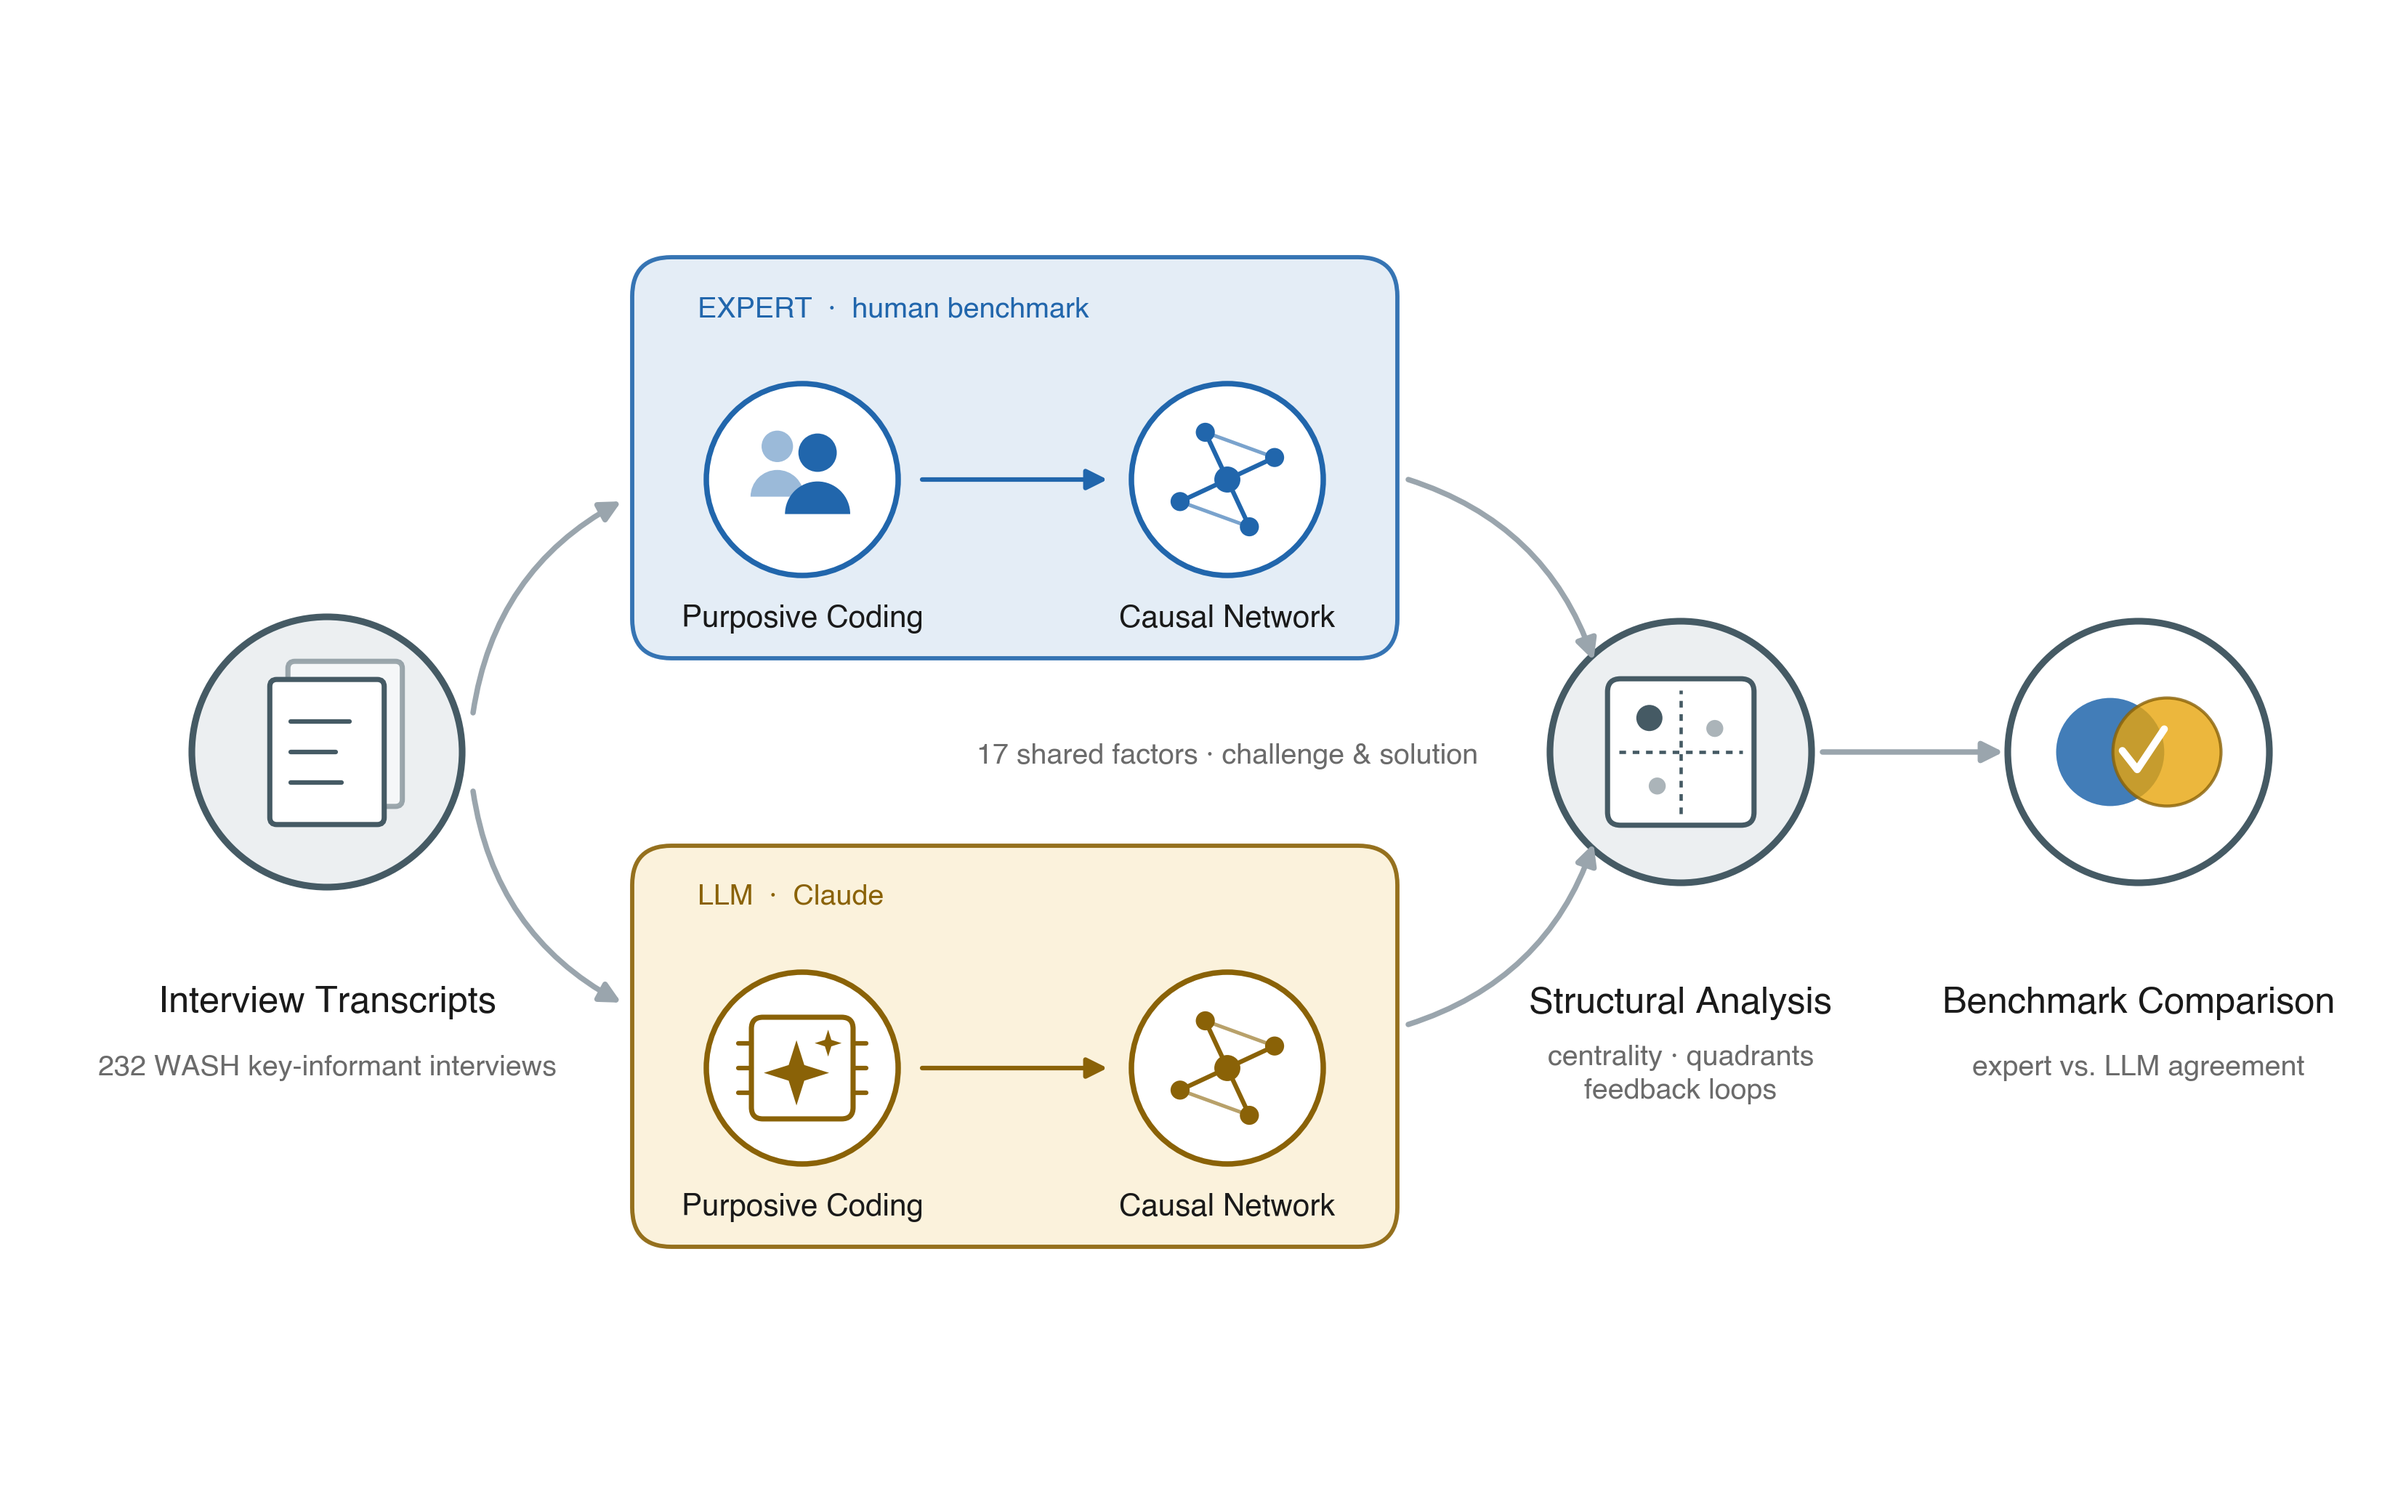
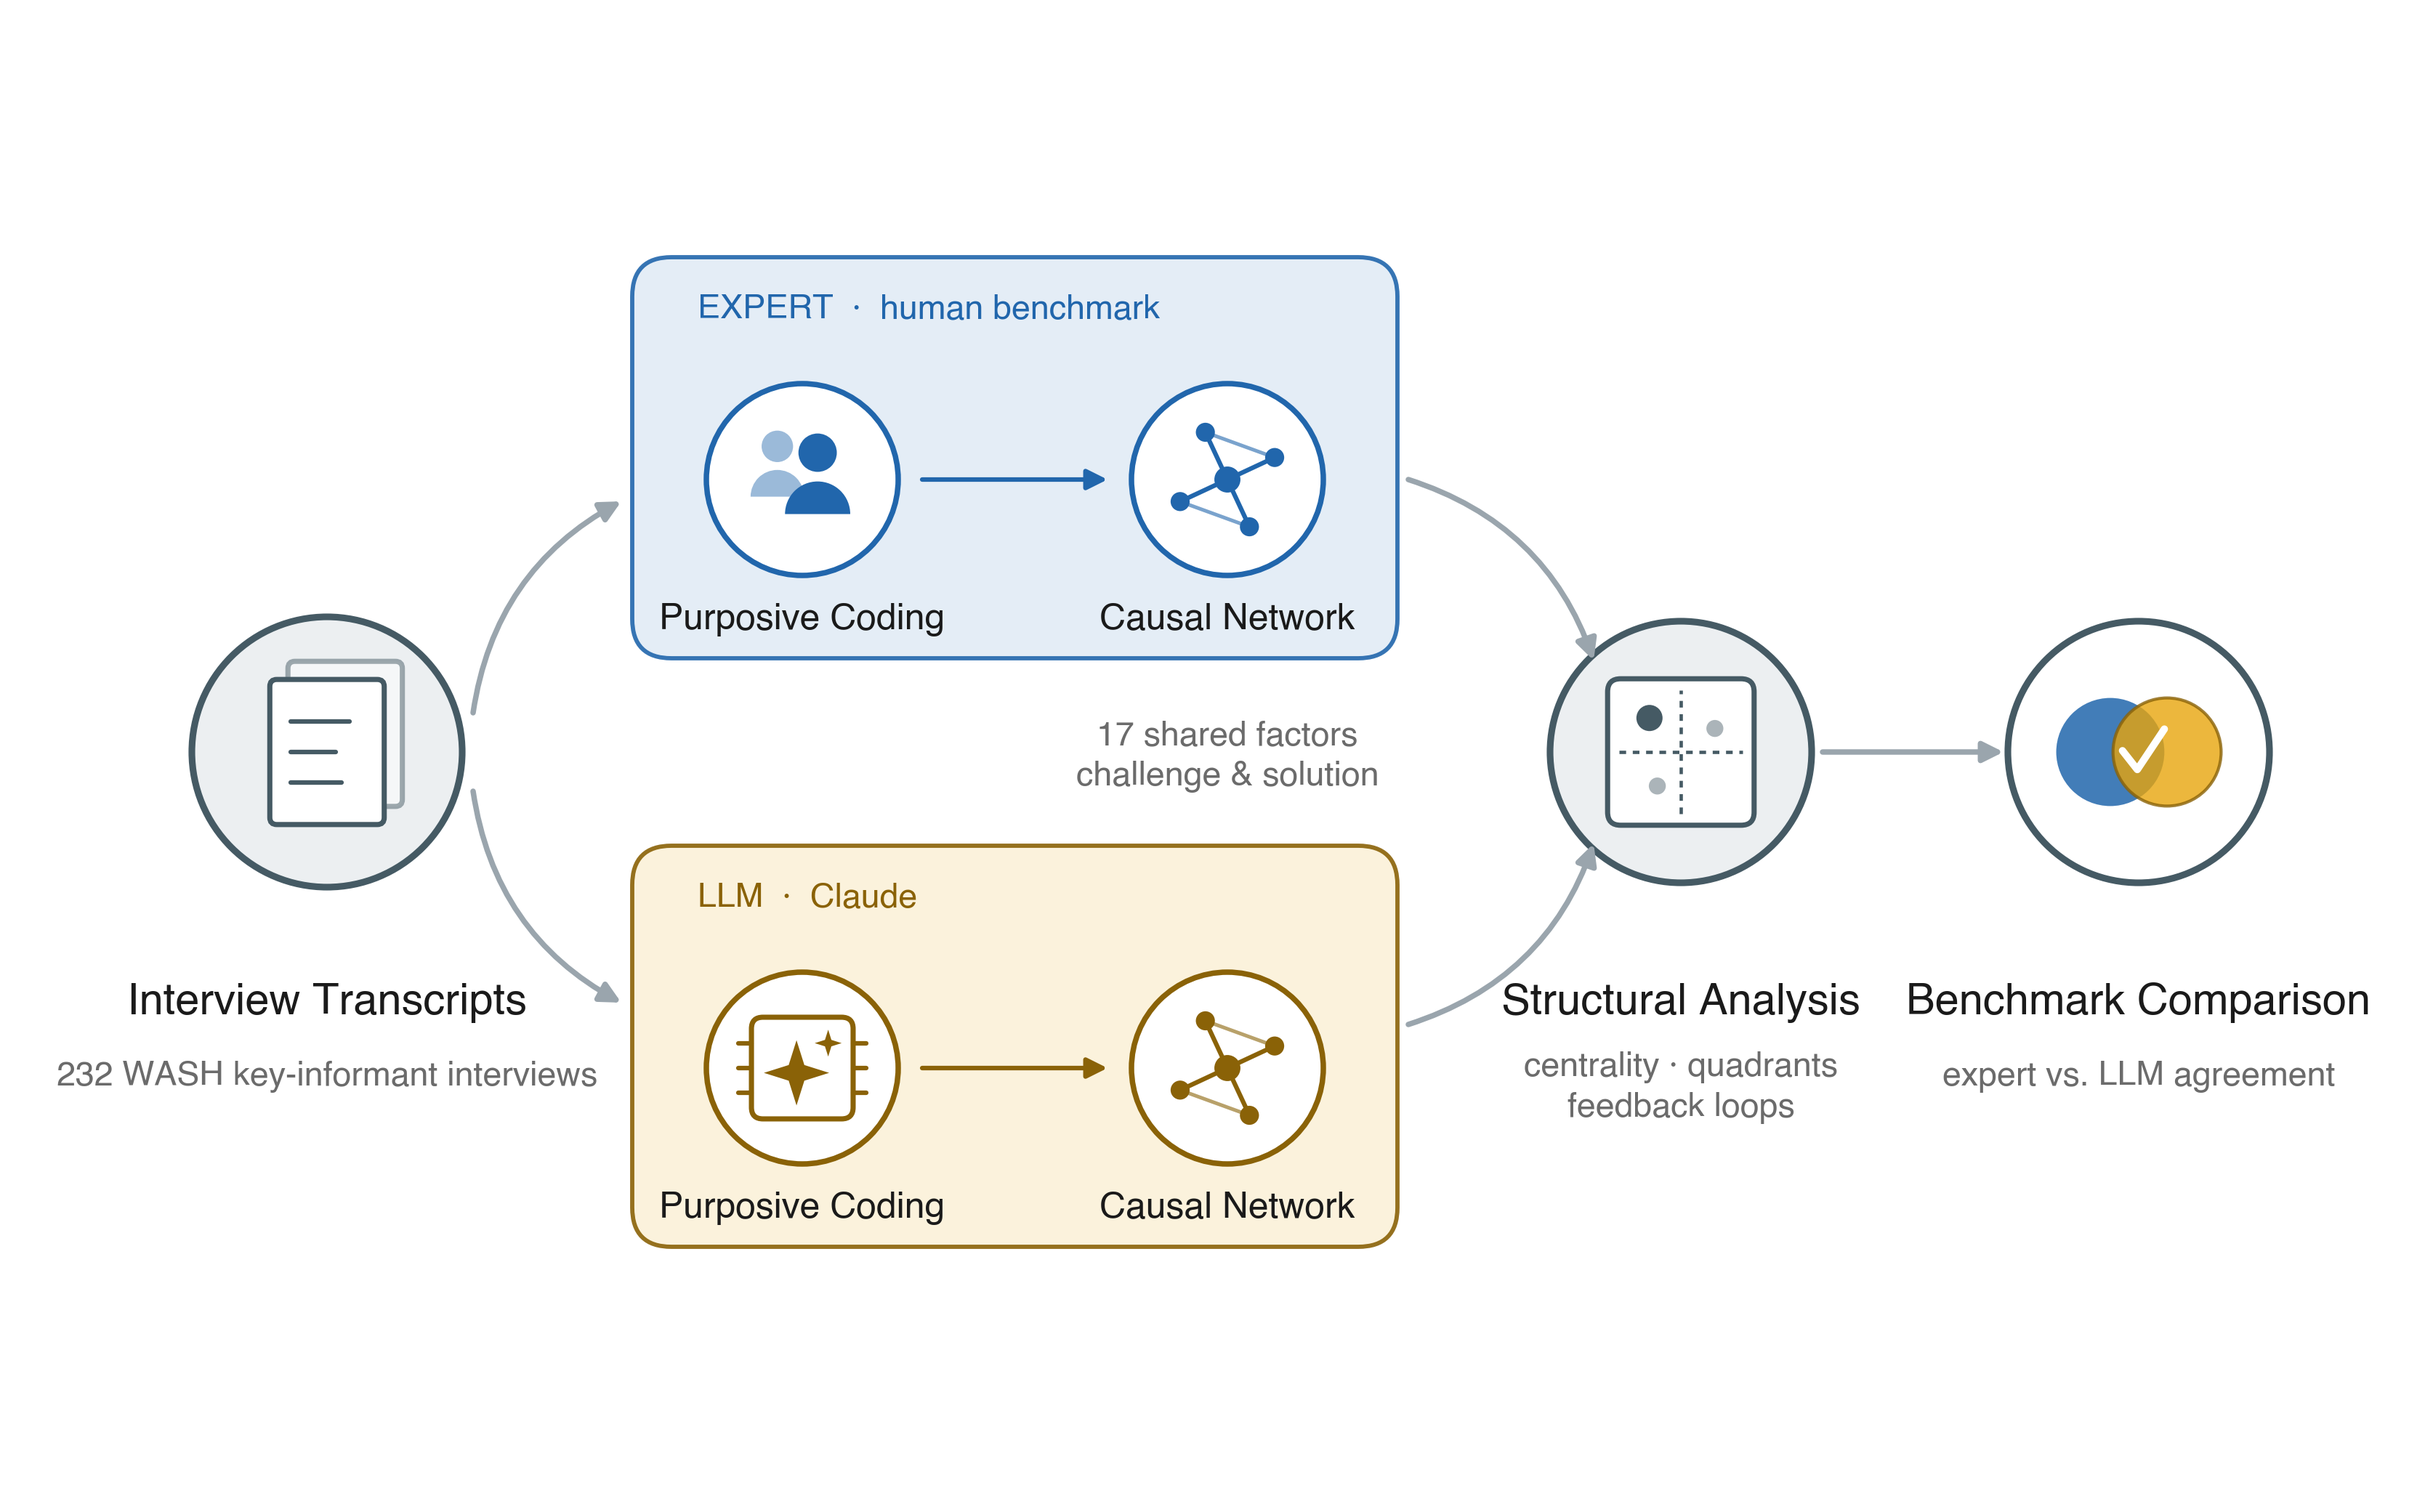
v2 final: 1.3x fonts (mirrors working repo)

diff --git a/figures/make_figure1_pictorial_variants.py b/figures/make_figure1_pictorial_variants.py
@@ -491,11 +491,12 @@ def build_v2_final():
     W, H = 10.5, 6.4
     fig, ax = canvas(W, H)
     mid = 3.2
-    F = 1.1   # font bump vs. the menu version of v2
+    F = 1.3   # font bump vs. the menu version of v2
 
     badge(ax, 1.25, mid, 0.62, NEUT, NEUT_TINT)
     icon_docs(ax, 1.25, mid, 0.64, NEUT)
-    title_sub(ax, 1.25, 2.05, "transcripts", ts=11 * F, ss=8.6 * F)
+    title_sub(ax, 1.25, 2.05, "transcripts", ts=11 * F, ss=8.6 * F,
+              gap=0.34)
 
     bx0, cxc, cxn = 2.65, 3.43, 5.38   # lane box left, coding x, network x
     bx1 = cxn + 0.78                   # lane box right
@@ -526,9 +527,9 @@ def build_v2_final():
               color=color, lw=1.5)
 
     # note sits in the gap between the two Causal Network icons
-    ax.text(cxn, 3.18, "17 shared factors · challenge & solution",
+    ax.text(cxn, 3.18, "17 shared factors\nchallenge & solution",
             fontsize=8.6 * F, color=MUTED, ha="center", va="center",
-            zorder=6)
+            linespacing=1.35, zorder=6)
 
     xa, xc = bx1 + 1.30, bx1 + 3.40
     badge(ax, xa, mid, 0.60, NEUT, NEUT_TINT)
@@ -536,13 +537,14 @@ def build_v2_final():
     ax.text(xa, 2.05, STEPS["analysis"][0], fontsize=11 * F,
             fontweight="bold", color=INK, ha="center", va="center",
             zorder=6)
-    ax.text(xa, 1.72, "centrality · quadrants\nfeedback loops",
+    ax.text(xa, 1.66, "centrality · quadrants\nfeedback loops",
             fontsize=8.6 * F, color=MUTED, ha="center", va="center",
             linespacing=1.35, zorder=6)
 
     badge(ax, xc, mid, 0.60, NEUT, "white")
     icon_compare(ax, xc, mid, 0.62)
-    title_sub(ax, xc, 2.05, "compare", ts=11 * F, ss=8.6 * F)
+    title_sub(ax, xc, 2.05, "compare", ts=11 * F, ss=8.6 * F,
+              gap=0.34)
 
     arrow(ax, (1.92, mid + 0.18), (2.60, 4.35), rad=-0.25)
     arrow(ax, (1.92, mid - 0.18), (2.60, 2.05), rad=0.25)
